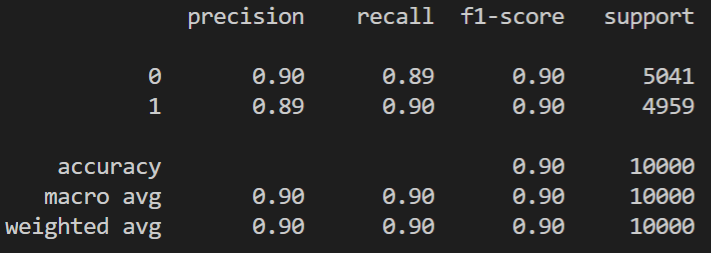
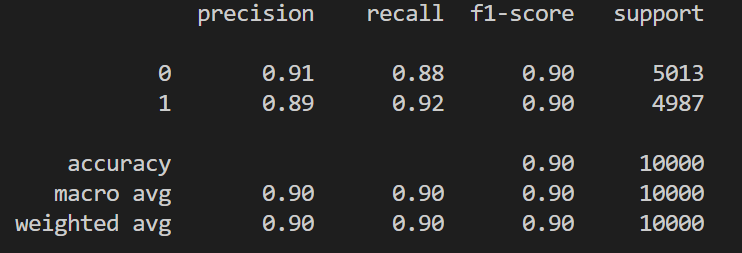
Update to unigram and bigram range and create preprocess for reviews

diff --git a/train.py b/train.py
@@ -10,6 +10,8 @@ import numpy as np
 from sklearn.pipeline import Pipeline
 from nltk.corpus import stopwords 
 from nltk.stem import PorterStemmer 
+import string
+from nltk.tokenize import word_tokenize
 
 # Function to train model using SVM
 def get_data():
@@ -24,7 +26,7 @@ def get_data():
     next(csvreader)
     for row in csvreader:
         # Add review to list 
-        X.append(row[0])
+        X.append(preprocess(row[0]))
         # Add sentiment to list with 1 given positive and 0 given negative
         if row[1] == 'positive':
             y.append(1)
@@ -34,24 +36,26 @@ def get_data():
     return X_train, X_test, y_train, y_test  
 
 # Function to process tweets to remove stopwords and to stem
-# def preprocess(review):
-#     # Import stemmer
-#     ps = PorterStemmer()
-#     # Import list from NLTK library that contains stop words
-#     stop_words = set(stopwords.words('english'))
-
-#     for data in review:
-#         print(data)
-#         if not data in stop_words:
-#             processed = ps.stem(data) + " "
-#         break
-#     print(processed)
-#     return processed
+def preprocess(review):
+    processed = ""
+    words = word_tokenize(review)
+    # Import stemmer
+    ps = PorterStemmer()
+    # Import list from NLTK library that contains stop words
+    stop_words = set(stopwords.words('english'))
+    for word in words:
+        if not word in stop_words:
+            processed += ps.stem(word) + " "
+    processed = processed.replace('< br / >',' ')
+    processed = processed.translate(str.maketrans('', '', string.punctuation))
+    processed = " ".join(processed.split())
+    print(processed)
+    return processed
 
 # Used to classify and vectorize dataset with TF-IDF and SVM
 def train(X_train, y_train):
     # Used to vectorize words and remove stop words
-    vectorizer = TfidfVectorizer(stop_words='english')
+    vectorizer = TfidfVectorizer(stop_words='english', ngram_range=(1,2))
     # Used to implement SVM     
     SVM = svm.LinearSVC()
     # Used to build a composite estimator using vectorizer and SVM 

diff --git a/test.py b/test.py
@@ -1,0 +1,35 @@
+import csv
+from nltk.corpus import stopwords 
+import urllib.request as request
+import codecs
+import pickle
+
+def test():
+    loaded_model = pickle.load(open('model.sav', 'rb'))
+
+    review = ""
+
+    # List to hold data in columns
+    X_test = []
+    Y_test = []
+
+    url = "https://raw.githubusercontent.com/JianHMai/Movie-Tweet-Sentiment-Analysis/master/test.csv"
+    # Retrieve csv file from URL
+    csvreader = csv.reader(codecs.iterdecode(request.urlopen(url),'utf-8'))
+    # Skip header row
+    next(csvreader)
+    for row in csvreader:
+        for word in row[0]:
+            if word not in stopwords:
+                review += review
+        # Add X value to list 
+        X_test.append(review)
+        # Add Y to list with 1 given positive and 0 given negative
+        if row[1] == 'positive':
+            Y_test.append(1)
+        else: Y_test.append(0)
+
+    sklearn.cross_
+
+if __name__ == '__main__':
+    test()
